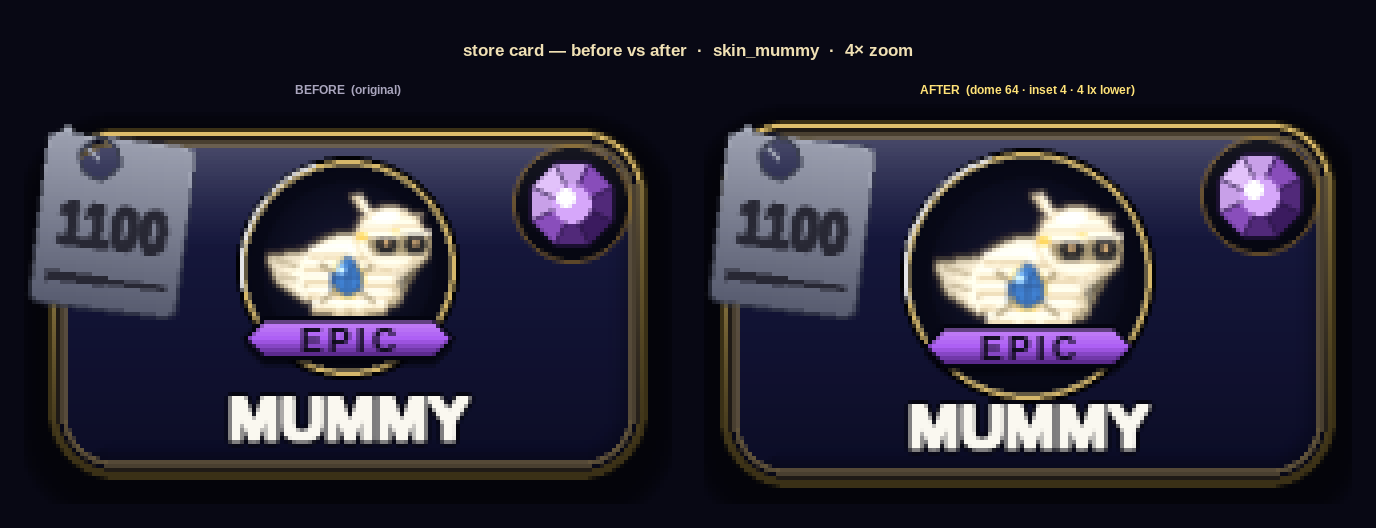
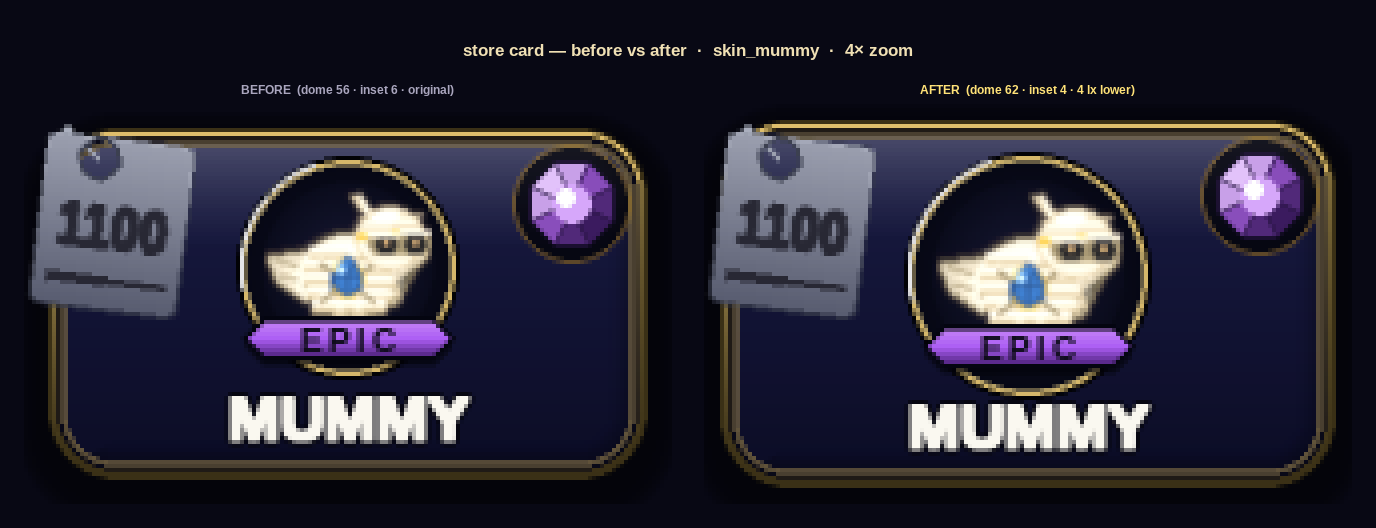
feat(store-cards): update dome to 62, refresh before/after comparison
_DOME_R 64→62, _BOX_PX 96→93.

Claude-Session: https://claude.ai/code/session_01DaGYw11VdAubog2VGiiucC

diff --git a/game/store_cards.py b/game/store_cards.py
@@ -603,8 +603,8 @@ Y_CHIP = 84
 GEM_R = 8
 
 # v5 item-card calibration — locked by exploration
-_DOME_R  = 64   # dome radius (device px); box proportional at 1.5×
-_BOX_PX  = 96   # item thumbnail box in device px
+_DOME_R  = 62   # dome radius (device px); box proportional at 1.5×
+_BOX_PX  = 93   # item thumbnail box in device px
 _ITEM_DY =  6   # 3 logical px above dome centre (locked: was 5, nudged +2 lx down)
 _DOME_DY = 10   # 5 logical px: dome+item shifted down from CY_DISC
 _RIBN_DY =  5   # lozenge ribbon 5 device px above the m(55) baseline
